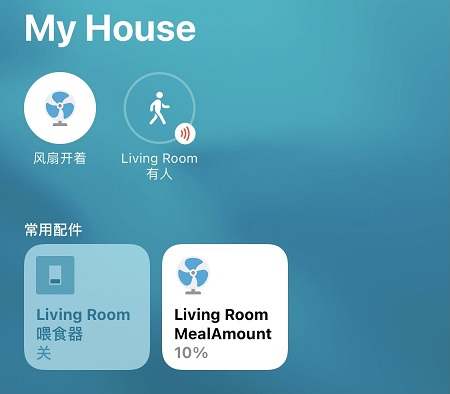
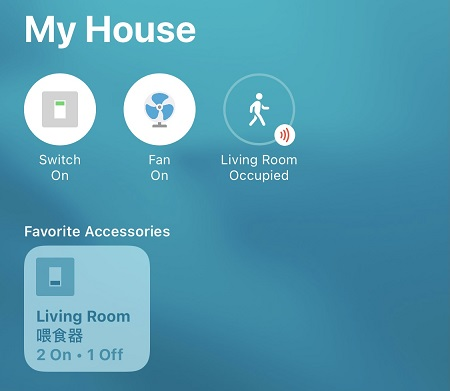
1. add manualLock function. 2. update screenshot.

diff --git a/index.js b/index.js
@@ -8,6 +8,10 @@ const format = require('string-format');
 const dayjs = require('dayjs');
 const pollingtoevent = require('polling-to-event');
 
+const support_settings = Object.freeze({
+    'manualLock' : 'settings.manualLock',      // 1 for off, 0 for on
+});
+
 const global_urls = Object.freeze({
     'cn': {
         'deviceState': 'http://api.petkit.cn/6/feedermini/devicestate?id={}',
@@ -18,6 +22,7 @@ const global_urls = Object.freeze({
         'restoreDailyFeeds': 'http://api.petkit.cn/6/feedermini/restore_dailyfeed?deviceId={}&day={}&id=s{}',
         'disableDailyFeeds': 'http://api.petkit.cn/6/feedermini/remove_dailyfeed?deviceId={}&day={}&id=s{}',
         'resetDesiccant': 'http://api.petkit.cn/6/feedermini/desiccant_reset?deviceId={}',
+        'updateSettings': 'http://api.petkit.cn/6/feedermini/update?id={}&kv={}',
         'owndevices': 'http://api.petkit.cn/6/discovery/device_roster',
     },
     'asia':{
@@ -29,6 +34,7 @@ const global_urls = Object.freeze({
         'restoreDailyFeeds': 'http://api.petktasia.com/latest/feedermini/restore_dailyfeed?deviceId={}&day={}&id=s{}',
         'disableDailyFeeds': 'http://api.petktasia.com/latest/feedermini/remove_dailyfeed?deviceId={}&day={}&id=s{}',
         'resetDesiccant': 'http://api.petktasia.com/latest/feedermini/desiccant_reset?deviceId={}',
+        'updateSettings': 'http://api.petktasia.com/latest/feedermini/update?id={}&kv={}',
         'owndevices': 'http://api.petktasia.com/latest/discovery/device_roster',
     }
 });
@@ -138,8 +144,20 @@ function petkit_feeder_mini_plugin(log, config, api) {
 petkit_feeder_mini_plugin.prototype = {
     getServices: function() {
         var services = [];
+        this.getDeviceDetailInfoFromServer();
+
+        if (this.config['autoDeviceInfo']) {
+            this.name = this.deviceDetailInfo['name'] || this.config['name'] || 'PetkitFeederMini';
+            this.serialNumber = this.deviceDetailInfo['sn'] || this.config['sn'] || 'PetkitFeederMini';
+            this.firmware = this.deviceDetailInfo['firmware'] || this.config['firmware'] || '1.0.0';
+        } else {
+            this.name = this.config['name'] || 'PetkitFeederMini';
+            this.serialNumber = this.config['sn'] || 'PetkitFeederMini';
+            this.firmware = this.config['firmware'] || '1.0.0';
+        }
+
         // meal drop service
-        this.drop_meal_service = new Service.Switch('DropMeal');
+        this.drop_meal_service = new Service.Switch(this.name + 'DropMeal', 'DropMeal');
         this.drop_meal_service.getCharacteristic(Characteristic.On)
             .on('get', function(callback) {
                 const currentValue = 0;
@@ -148,8 +166,8 @@ petkit_feeder_mini_plugin.prototype = {
             .on('set', this.hb_dropMeal_set.bind(this));
         services.push(this.drop_meal_service);
 
-        // meal amount setting service
-        this.meal_amount_service = new Service.Fan('MealAmount');
+        // meal amount setting
+        this.meal_amount_service = new Service.Fan(this.name + 'MealAmount', 'MealAmount');
         this.meal_amount_service.getCharacteristic(Characteristic.On)
             .on('get', function(callback) {
                 callback(null, this.mealAmount != 0);
@@ -170,18 +188,17 @@ petkit_feeder_mini_plugin.prototype = {
             });
         services.push(this.meal_amount_service);
 
-        // food storage indicator service
-        this.getDeviceStatusFromServer();
-        this.food_storage_service = new Service.OccupancySensor('FoodStorage');
+        // food storage indicator
+        this.food_storage_service = new Service.OccupancySensor(this.name + 'FoodStorage', 'FoodStorage');
         this.food_storage_service.getCharacteristic(Characteristic.OccupancyDetected)
             .on('get', this.hb_foodStorageStatus_get.bind(this));
         var food_storage_status = this.deviceDetailInfo['food'] || 0;
         this.food_storage_service.setCharacteristic(Characteristic.OccupancyDetected, food_storage_status)
         services.push(this.food_storage_service);
 
-        // desiccant left days service
+        // desiccant left days
         var desiccantLeftDays = this.deviceDetailInfo['desiccantLeftDays'] || max_desiccantLeftDays;
-        this.desiccant_level_service = new Service.FilterMaintenance('DesiccantLevel');
+        this.desiccant_level_service = new Service.FilterMaintenance(this.name + 'DesiccantLevel', 'DesiccantLevel');
         this.desiccant_level_service.getCharacteristic(Characteristic.FilterChangeIndication)
             .on('get', this.hb_desiccantIndicator_get.bind(this));
         this.desiccant_level_service.getCharacteristic(Characteristic.FilterLifeLevel)
@@ -195,17 +212,19 @@ petkit_feeder_mini_plugin.prototype = {
             .on('set', this.hb_desiccantLeftDays_reset.bind(this))
         services.push(this.desiccant_level_service);
 
-        if (this.config['autoDeviceInfo']) {
-            this.name = this.deviceDetailInfo['name'] || this.config['name'] || 'PetkitFeederMini';
-            this.serialNumber = this.deviceDetailInfo['sn'] || this.config['sn'] || 'PetkitFeederMini';
-            this.firmware = this.deviceDetailInfo['firmware'] || this.config['firmware'] || '1.0.0';
-        } else {
-            this.name = this.config['name'] || 'PetkitFeederMini';
-            this.serialNumber = this.config['sn'] || 'PetkitFeederMini';
-            this.firmware = this.config['firmware'] || '1.0.0';
-        }
+        // manualLock setting
+        var manualLock = this.deviceDetailInfo['manualLock'] || 0;      // default not lock
+        this.manualLock_service = new Service.Switch(this.name + 'ManualLock', 'ManualLock');
+        this.manualLock_service.getCharacteristic(Characteristic.On)
+            .on('get', function(callback) {
+                const currentValue = this.deviceDetailInfo['manualLock'] || 0;
+                callback(null, currentValue ? 0 : 1);// on for off, off for on, same behavior with Petkit app.
+            }.bind(this))
+            .on('set', this.hb_manualLockStatus_set.bind(this));
+        services.push(this.manualLock_service);
 
-        this.battery_status_service = new Service.BatteryService('Battery');
+        // battery status
+        this.battery_status_service = new Service.BatteryService(this.name + 'Battery', 'Battery');
         this.battery_status_service.getCharacteristic(Characteristic.BatteryLevel)
             .on('get', this.hb_deviceBatteryLevel_get.bind(this));
         this.battery_status_service.getCharacteristic(Characteristic.ChargingState)
@@ -214,7 +233,7 @@ petkit_feeder_mini_plugin.prototype = {
             .on('get', this.hb_deviceStatusLowBattery_get.bind(this));
         services.push(this.battery_status_service);
 
-        // divice information service
+        // divice information
         this.info_service = new Service.AccessoryInformation();
         this.info_service
             .setCharacteristic(Characteristic.Identify, this.deviceId)
@@ -245,7 +264,7 @@ petkit_feeder_mini_plugin.prototype = {
             };
             this.poolToEventEmitter = pollingtoevent(function(done) {
                 this.log('start polling...');
-                this.getDeviceStatusFromServer(function(status_info) {
+                this.getDeviceDetailInfoFromServer(function(status_info) {
                     done(null, status_info)
                 }.bind(this));
             }.bind(this), polling_options);
@@ -270,16 +289,17 @@ petkit_feeder_mini_plugin.prototype = {
     praseSaveDailyFeedResult: function(jsonStr) {
         const jsonObj = JSON.parse(jsonStr);
         if (!jsonObj) {
-            log('JSON.parse error with:' + jsonStr);
+            log.warn('JSON.parse error with:' + jsonStr);
             return false;
         }
 
         if (jsonObj.hasOwnProperty('error')) {
-            this.log(jsonObj.error.msg);
+            this.log.warn(jsonObj.error.msg);
             return false;
         }
 
         if (!jsonObj.hasOwnProperty('result')) {
+            this.log.warn('JSON.parse error with:' + jsonStr);
             return false;
         }
 
@@ -293,17 +313,17 @@ petkit_feeder_mini_plugin.prototype = {
     praseGetDeviceResult: function(jsonStr) {
         const jsonObj = JSON.parse(jsonStr);
         if (!jsonObj) {
-            this.log('JSON.parse error with:' + jsonStr);
+            this.log.warn('JSON.parse error with:' + jsonStr);
             return false;
         }
 
         if (!jsonObj.hasOwnProperty('result')) {
-            this.log('JSON.parse error with:' + jsonStr);
+            this.log.warn('JSON.parse error with:' + jsonStr);
             return false;
         }
 
         if (!jsonObj.result.hasOwnProperty('devices')) {
-            this.log('JSON.parse error with:' + jsonStr);
+            this.log.warn('JSON.parse error with:' + jsonStr);
             return false;
         }
 
@@ -325,6 +345,26 @@ petkit_feeder_mini_plugin.prototype = {
         }
 
         return devices;
+    },
+
+    praseUpdateDeviceSettingsResult: function(jsonStr) {
+        const jsonObj = JSON.parse(jsonStr);
+        if (!jsonObj) {
+            this.log.warn('JSON.parse error with:' + jsonStr);
+            return false;
+        }
+
+        if (jsonObj.hasOwnProperty('error')) {
+            this.log.warn(jsonObj.error.msg);
+            return false;
+        }
+
+        if (!jsonObj.hasOwnProperty('result')) {
+            this.log.warn('JSON.parse error with:' + jsonStr);
+            return false;
+        }
+
+        return (jsonObj.result == 'success');
     },
 
     // date：20200920、time: 68400
@@ -405,7 +445,11 @@ petkit_feeder_mini_plugin.prototype = {
         }
     },
 
-    getDeviceStateFromServer: function(callback = null) {
+    getDevicesFromServer: function(callback = null) {
+        return this.post(this.urls.owndevices, callback);
+    },
+
+    getDeviceBriefInfoFromServer: function(callback = null) {
         // {
         //     "result": {
         //         "batteryPower":4,"batteryStatus":0,"desiccantLeftDays":6,
@@ -418,11 +462,7 @@ petkit_feeder_mini_plugin.prototype = {
         return this.post(format(this.urls.deviceState, this.deviceId), callback);
     },
 
-    getDevicesFromServer: function(callback = null) {
-        return this.post(this.urls.owndevices, callback);
-    },
-
-    getDeviceStatusFromServer: function(callback = null) {
+    getDeviceDetailInfoFromServer: function(callback = null) {
         const getDeviceDetailFromServer = function (callback = null) {
             // {"result":{"createdAt":"2020-05-26T12:48:29.158Z","feed":{"deviceId":356367,"isExecuted":1,"isLock":1,"items":[{"amount":15,"id":"43200","name":"\u5348\u9910","petAmount":[{"amount":15,"petId":"770000"}],"time":43200}],"repeats":"1,2,3,4,5,6,7","suspended":0,"userId":"xxxxxx"},"firmware":"1.394","firmwareDetails":[{"module":"userbin","version":2003001}],"hardware":1,"id":356367,"locale":"Asia\/Shanghai","mac":"xxxxxxxxxxxx","name":"\u667A\u80FD\u5582\u98DF\u5668","relation":{"petIds":["xxxxxx"],"userId":"xxxxxx"},"secret":"xxxxxx","settings":{"desiccantNotify":0,"feedNotify":1,"foodNotify":1,"lightMode":0,"lightRange":[0,1440],"manualLock":0,"reBatteryNotify":1},"shareOpen":0,"signupAt":"2020-09-20T18:05:39.269Z","sn":"xxxx","state":{"batteryPower":4,"batteryStatus":0,"desiccantLeftDays":6,"errorPriority":0,"feeding":0,"food":1,"ota":0,"overall":1,"pim":1,"runtime":49677,"wifi":{"bssid":"xxxxxxxxxxxx","rsq":-37,"ssid":"xxxxxxxxxx"}},"timezone":8.0,"type":0,"user":{"avatar":"http:\/\/img5.petkit.cn\/uavatar\/2020\/5\/24\/xxxxxxxxxx","gender":1,"id":"xxxxxx","nick":"xxxxxx","official":0,"point":{"endGrowth":2000,"growth":1415,"honour":"LV5","icon":"http:\/\/img5.petkit.cn\/misc\/point\/s5","icon2":"http:\/\/img5.petkit.cn\/misc\/point\/l5","rank":5,"startGrowth":1000}}}}
             return this.post(format(this.urls.deviceDetail, this.deviceId), callback);
@@ -487,6 +527,13 @@ petkit_feeder_mini_plugin.prototype = {
         return this.post(format(this.urls.removeDailyFeed, this.deviceId, date, time), callback);
     },
 
+    // key see support_settings.
+    updateDeviceSettings: function(key, value, callback = null) {
+        var data = {};
+        data[support_settings[key]] = value;
+        return this.post(format(this.urls.updateSettings, this.deviceId, JSON.stringify(data)), callback);
+    },
+
     updateHomebridgeStatus: function(status_info) {
         var status = status_info['food'] || false;
         this.log.debug('device food storage status is: ' + (status ? 'Ok' : 'Empty'));
@@ -506,7 +553,7 @@ petkit_feeder_mini_plugin.prototype = {
                 this.log('drop food:' + this.mealAmount + 'meal(s)');
                 const data = this.saveDailyFeed(dayjs(new Date()).format('YYYYMMDD'), -1, this.mealAmount);
                 if (!data) {
-                    callback('failed to commuciate with server.');
+                    this.log('failed to commuciate with server.');
                 } else {
                     const result = this.praseSaveDailyFeedResult(data);
                     this.log('food drop result: ' + result ? 'success' : 'failed');
@@ -519,6 +566,9 @@ petkit_feeder_mini_plugin.prototype = {
             }.bind(this), 200);
         }
         callback(null);
+        this.getDeviceDetailInfoFromServer(function(status_info){
+            this.updateHomebridgeStatus(status_info);
+        }.bind(this));
     },
 
     hb_desiccantIndicator_get: function(callback) {
@@ -529,7 +579,7 @@ petkit_feeder_mini_plugin.prototype = {
         }.bind(this);
 
         if (!this.enable_polling) {
-            getDeviceStatusFromServer(callbackResult);
+            getDeviceDetailInfoFromServer(callbackResult);
         } else {
             callbackResult();
         }
@@ -543,7 +593,7 @@ petkit_feeder_mini_plugin.prototype = {
         }.bind(this);
 
         if (!this.enable_polling) {
-            getDeviceStatusFromServer(callbackResult);
+            getDeviceDetailInfoFromServer(callbackResult);
         } else {
             callbackResult();
         }
@@ -572,10 +622,21 @@ petkit_feeder_mini_plugin.prototype = {
         }.bind(this);
         
         if (!this.enable_polling) {
-            getDeviceStatusFromServer(callbackResult);
+            getDeviceDetailInfoFromServer(callbackResult);
         } else {
             callbackResult();
         }
+    },
+
+    hb_manualLockStatus_set: function(value, callback) {
+        const status = value ? 0 : 1;       // on for off, off for on, same behavior with Petkit app.
+        this.updateDeviceSettings('manualLock', status, function(data) {
+            callback(null);
+            this.log('update manualLock status ' + (this.praseUpdateDeviceSettingsResult(data) ? 'success' : 'failed'));
+            this.getDeviceDetailInfoFromServer(function(status_info){
+                this.updateHomebridgeStatus(status_info);
+            }.bind(this));
+        }.bind(this));
     },
 
     // TODO
@@ -590,7 +651,7 @@ petkit_feeder_mini_plugin.prototype = {
         }.bind(this);
         
         if (!this.enable_polling) {
-            getDeviceStatusFromServer(callbackResult);
+            getDeviceDetailInfoFromServer(callbackResult);
         } else {
             callbackResult();
         }
@@ -608,7 +669,7 @@ petkit_feeder_mini_plugin.prototype = {
         }.bind(this);
         
         if (!this.enable_polling) {
-            getDeviceStatusFromServer(callbackResult);
+            getDeviceDetailInfoFromServer(callbackResult);
         } else {
             callbackResult();
         }
@@ -626,7 +687,7 @@ petkit_feeder_mini_plugin.prototype = {
         }.bind(this);
         
         if (!this.enable_polling) {
-            getDeviceStatusFromServer(callbackResult);
+            getDeviceDetailInfoFromServer(callbackResult);
         } else {
             callbackResult();
         }
